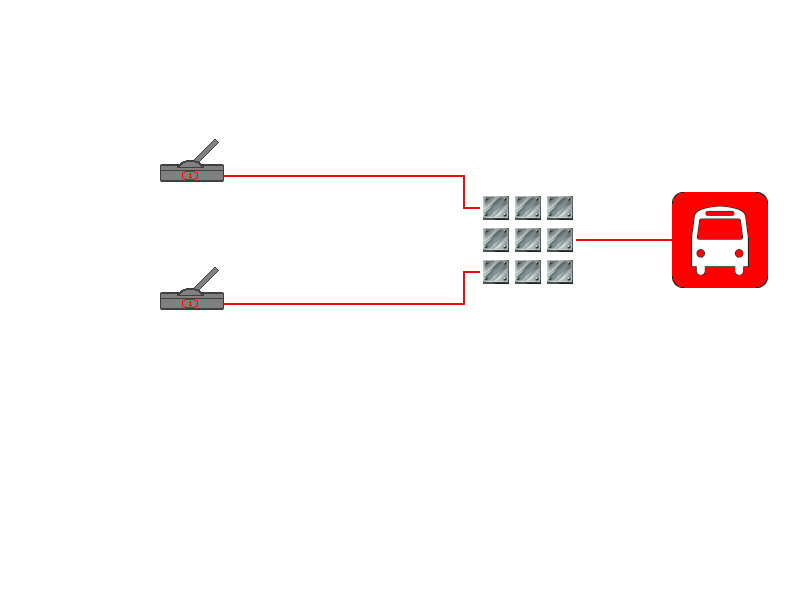
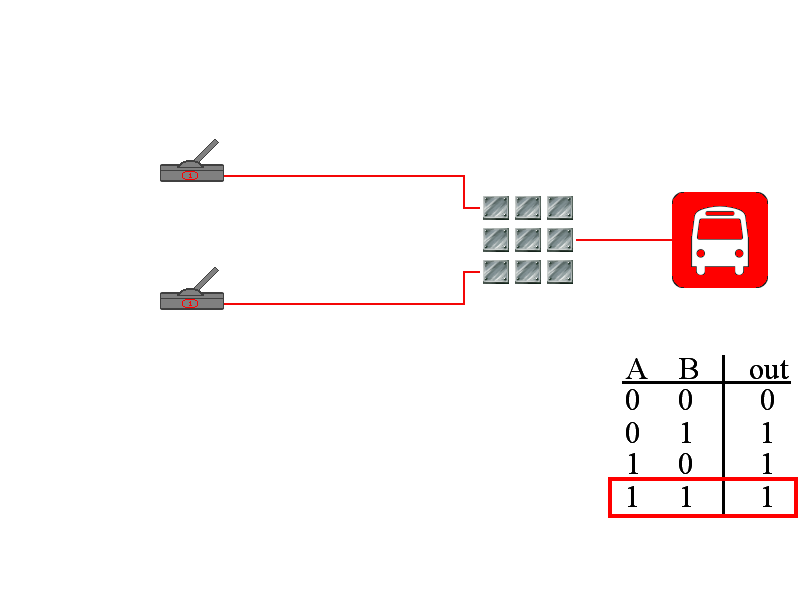
tabela verdade adicionada na fase KEY_5

Changed region(s): [[0.75, 0.5938, 1.0, 0.875]]

diff --git a/make/src/StartMenu.c b/make/src/StartMenu.c
@@ -11,8 +11,8 @@ void PrintMenu(int MenuPosition)
 	//al_draw_scaled_bitmap(fundo, 0, 0, 640, 480, 0, 0, 800, 600, 0);
 	al_draw_text(game.fonte, al_map_rgb(0, 0, 0), 800 / 2, 302, ALLEGRO_ALIGN_CENTRE, "--------------------------");
 	al_draw_text(game.fonte, al_map_rgb(0, 255, 0), 800 / 2, 305, ALLEGRO_ALIGN_CENTRE, "--------------------------");
-	al_draw_text(game.fonte_logo, al_map_rgb(0, 0, 0), 800 / 2, 350, ALLEGRO_ALIGN_CENTRE, "LOGIC GATES ADVENTURE");
-	al_draw_text(game.fonte_logo, al_map_rgb(0, 255, 0), 800 / 2, 356, ALLEGRO_ALIGN_CENTRE, "LOGIC GATES ADVENTURE");
+	al_draw_text(game.fonte_logo, al_map_rgb(0, 0, 0), 800 / 2, 350, ALLEGRO_ALIGN_CENTRE, "LogiKid");
+	al_draw_text(game.fonte_logo, al_map_rgb(0, 255, 0), 800 / 2, 356, ALLEGRO_ALIGN_CENTRE, "LogiKid");
 	al_draw_text(game.fonte, al_map_rgb(0, 0, 0), 800 / 2, 50, ALLEGRO_ALIGN_CENTRE, "Iniciar jogo");
 	al_draw_text(game.fonte, al_map_rgb(255, 255, 255), 800 / 2, 52, ALLEGRO_ALIGN_CENTRE, "Iniciar jogo");
 	al_draw_text(game.fonte, al_map_rgb(0, 0, 0), 800 / 2, 150, ALLEGRO_ALIGN_CENTRE, "Sair");
